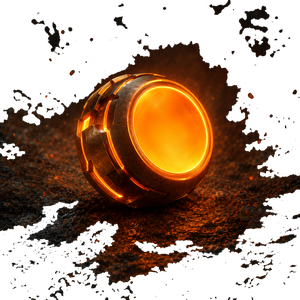
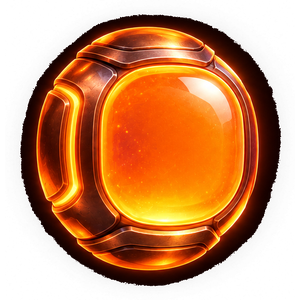
aetherfall: the three scene symbols, redone and isolated
symbol_wild, symbol_key and symbol_charge first arrived as scenes — a studio
backdrop with a floor, soil and sand — and since no keying separates an object
from the floor it stands on, they shipped with visible ground under them. The
regenerated versions came back on pure black with nothing beneath the object.

A black plate allows a better matte than the first batch got: the flood fill
establishes what is background, then luminance is folded back in, so the glow
each object throws survives as partial alpha instead of being cut to a hard
silhouette. They arrived 1536x1024 with the object floating mid-frame, so each
is cropped to its own bounding box and re-centred on a square canvas —
otherwise they would sit on the board at about two-thirds the size of every
other symbol.

Every symbol on the board is now cleanly isolated. One cosmetic leftover: the
Vault Key is a tall slim shape, so squaring it leaves more margin than the
chunkier symbols have and it reads slightly smaller in its chamber.

Also drop a stray "ChatGPT Image Sep 3 2026" render that landed in the asset
folder. pubspec bundles that directory wholesale, so it would have shipped 1.7MB
of nothing in the APK.

diff --git a/docs/aetherfall-design-doc.md b/docs/aetherfall-design-doc.md
@@ -361,7 +361,7 @@ Every path, size and generation prompt lives in `AETHERFALL_ARTWORK_BRIEF.md`.
 |---|---|---|---|
 | Sound | 18 wavs | **Delivered** | Wired |
 | Standard symbols | `symbol_l1…h4` | **Delivered** | Wired |
-| Special symbols | `symbol_wild`, `symbol_key`, `symbol_charge` | **Delivered, 3 need a redo** | Wired |
+| Special symbols | `symbol_wild`, `symbol_key`, `symbol_charge` | **Delivered** (regenerated) | Wired |
 | Hub tile | `cards/card_aetherfall.png` | **Delivered** | Wired |
 | Hero portraits | 3 × `hero_portrait_*` | **Delivered** | Wired |
 | Backgrounds | `bg_observatory`, `bg_bonus_vault` | **Delivered** | Wired |
@@ -396,15 +396,28 @@ Repaired in one pass (`app/assets/images/aetherfall/`, now **7.2 MB**):
 The pristine 42 MB originals are kept outside the repo in the session scratchpad,
 so any of this can be redone without re-generating.
 
-### Three symbols still need regenerating
+### The three scene renders, redone
 
-`symbol_wild`, `symbol_key` and `symbol_charge` came back as **scenes** rather
-than isolated objects — a studio backdrop with a floor and a cast shadow, soil,
-and sand respectively. No keying can separate an object from a floor it is
-sitting on, so these three ship with visible ground under them until they are
-redone. Add to the prompt: *plain solid black background, object floating,
-nothing beneath it, no ground, no floor, no surface, no cast shadow, no
-backdrop, no scene.*
+`symbol_wild`, `symbol_key` and `symbol_charge` first came back as **scenes**
+rather than isolated objects — a studio backdrop with a floor and a cast shadow,
+soil, and sand respectively. No keying separates an object from a floor it is
+standing on, so they were regenerated with the scene explicitly forbidden:
+*plain solid pure-black background, object floating, nothing beneath it, no
+ground, no floor, no surface, no cast shadow, no backdrop, no scene.*
+
+They came back correct, and a black plate allows a better matte than the first
+batch got: the flood fill establishes what is background, then luminance is
+folded back in, so the glow each object throws survives as partial alpha instead
+of being cut to a hard silhouette.
+
+They also arrived 1536×1024 landscape with the object floating in the middle, so
+each is cropped to its own bounding box and re-centred on a square canvas —
+otherwise they would sit on the board at roughly two-thirds the size of every
+other symbol.
+
+**Every symbol on the board is now cleanly isolated.** One cosmetic leftover:
+the Vault Key is a tall, slim shape, so squaring it leaves more empty margin
+than the chunkier symbols have and it reads slightly smaller in its chamber.
 
 ---
 
